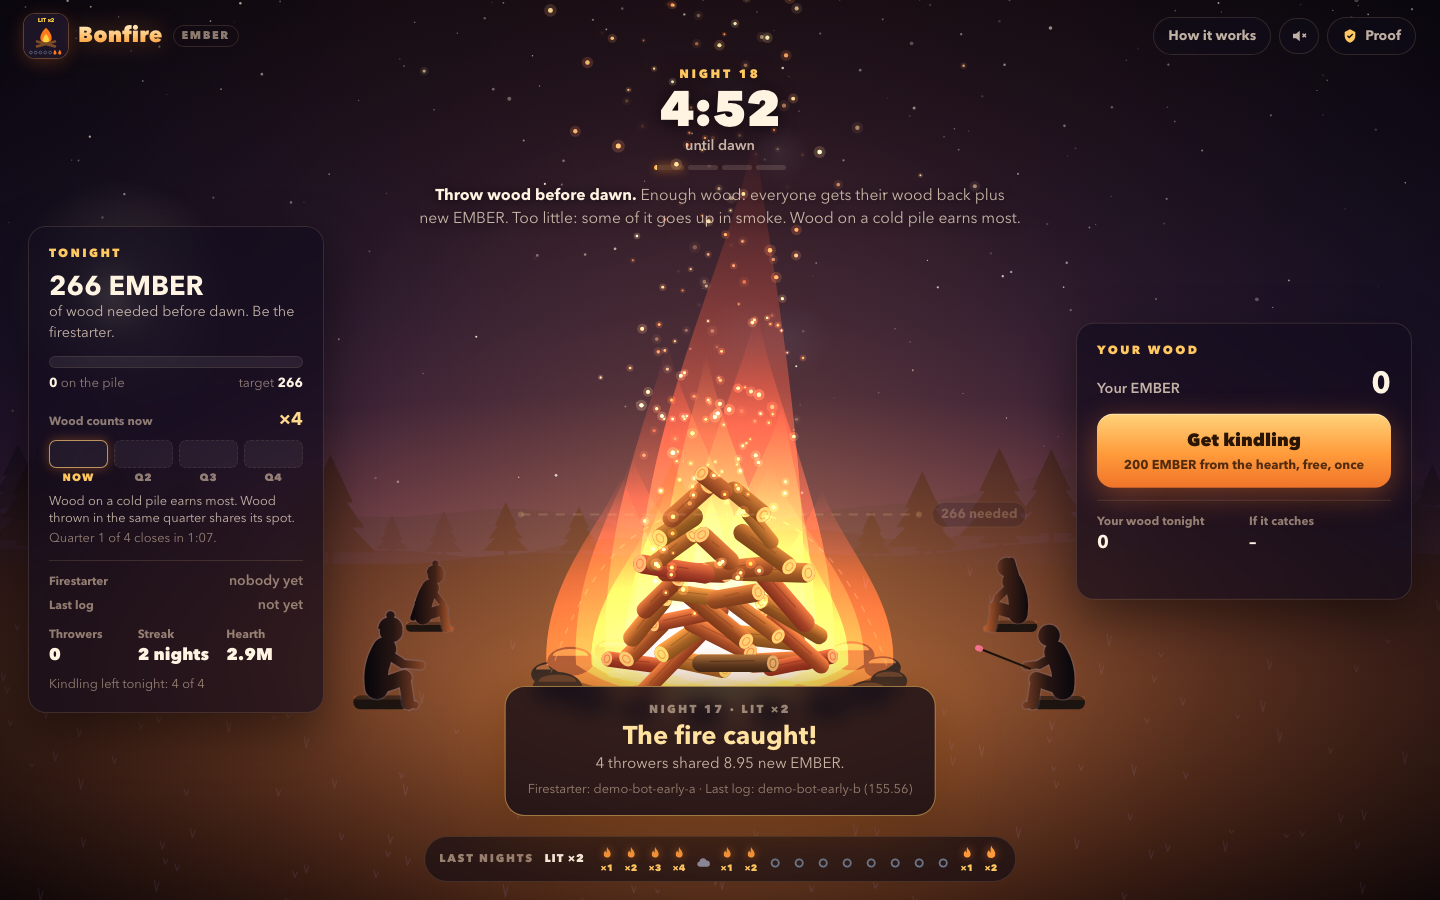
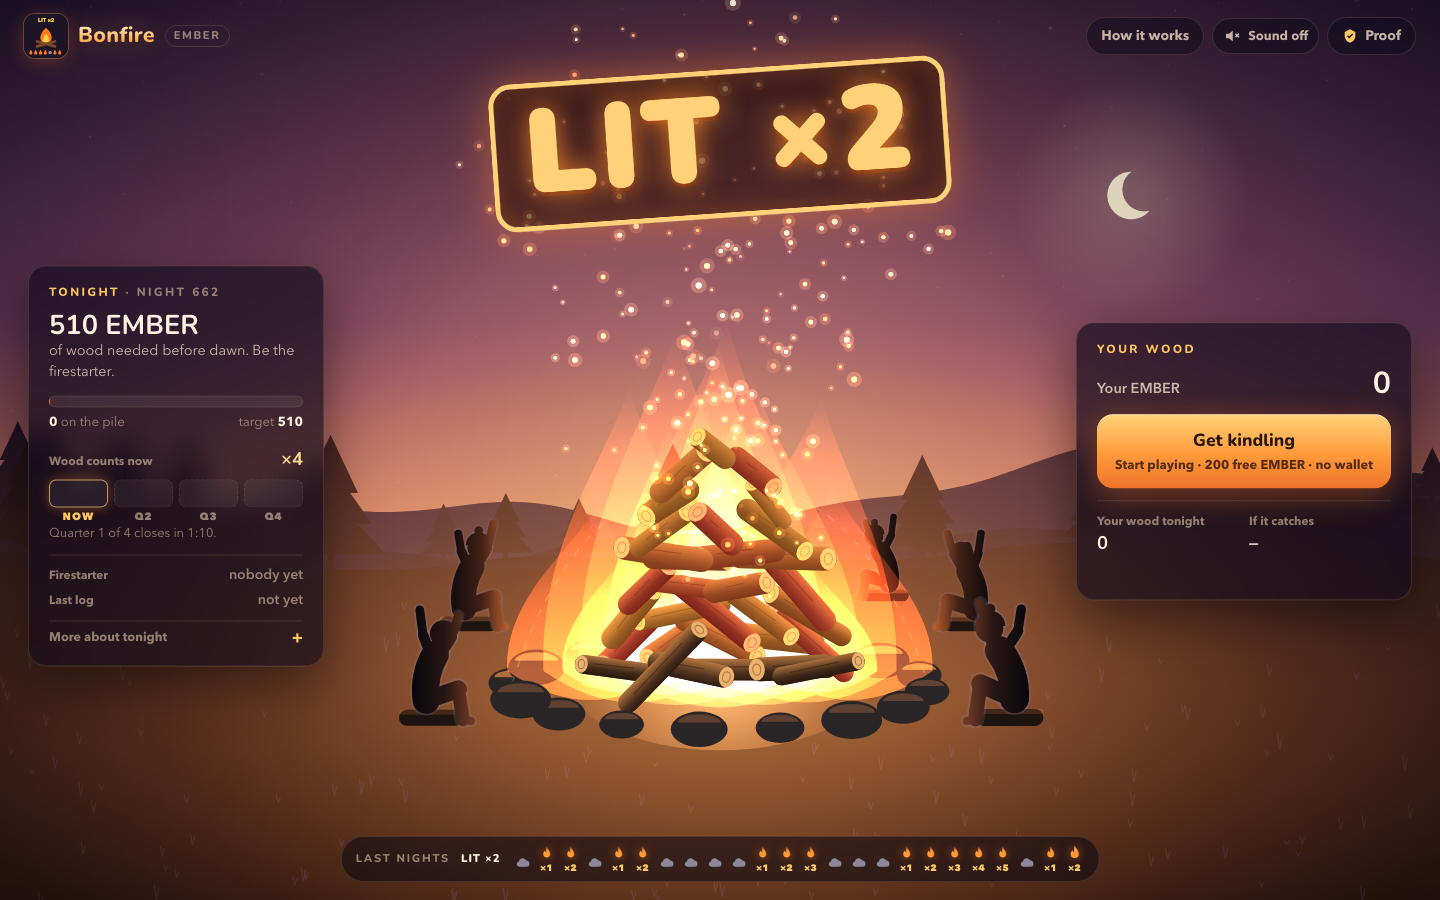
README: screenshots of the new look, from the live page

diff --git a/README.md b/README.md
@@ -1,4 +1,4 @@
-<p align="center"><img src="docs/shots/night.png" alt="The Bonfire page mid-night: the fire on the pile, the countdown to dawn, the Tonight card with the pile against the target, and the player's wood" width="760"></p>
+<p align="center"><img src="docs/shots/night.png" alt="The Bonfire page mid-night: the fire on the pile against its target, the countdown to dawn, the Tonight card and Get kindling" width="760"></p>
 
 # Bonfire: a memecoin you light together
 
@@ -22,9 +22,9 @@ The track asks for a memecoin whose meme does something, with every rule fixed a
 
 <table>
 <tr>
-<td width="38%"><img src="docs/shots/dawn.png" alt="The dawn banner over the fire: the night's outcome, what the throwers got, the firestarter and the last log"></td>
-<td width="38%"><img src="docs/shots/story.png" alt="The strip of the last nights, the supply chart, the records and the coin's face drawn by the contract"></td>
-<td width="24%"><img src="docs/shots/phone.png" alt="The page on a phone: the fire, the countdown and the Tonight card"></td>
+<td width="38%"><img src="docs/shots/dawn.png" alt="Dawn of a lit night: the stamp LIT ×2 in the sky, the fire roaring and the figures around it cheering"></td>
+<td width="38%"><img src="docs/shots/story.png" alt="EMBER minted and burned night by night, the records and the coin's face drawn by the contract"></td>
+<td width="24%"><img src="docs/shots/phone.png" alt="The page on a phone at dawn: the banner under the countdown, the fire caught, and Get kindling"></td>
 </tr>
 <tr>
 <td><sub><b>Dawn</b>: the night settles on chain and the banner says how it ended, who lit it and who closed the gap.</sub></td>
